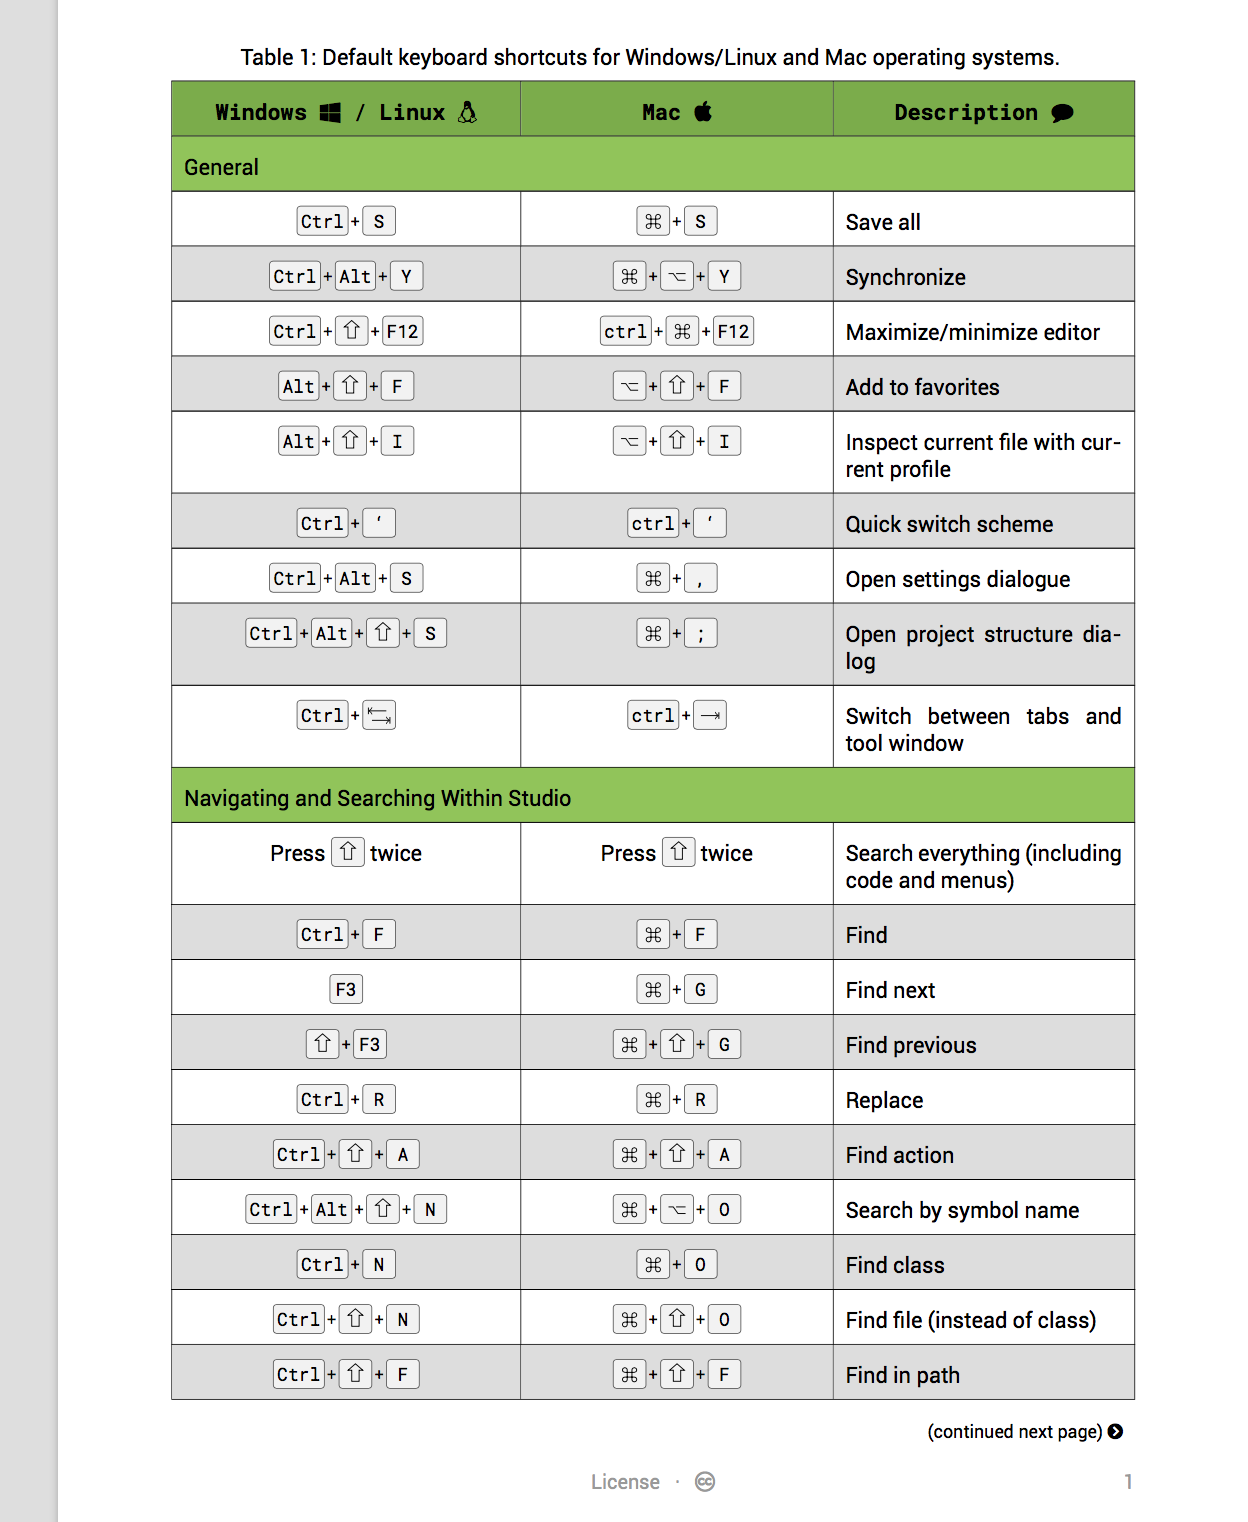
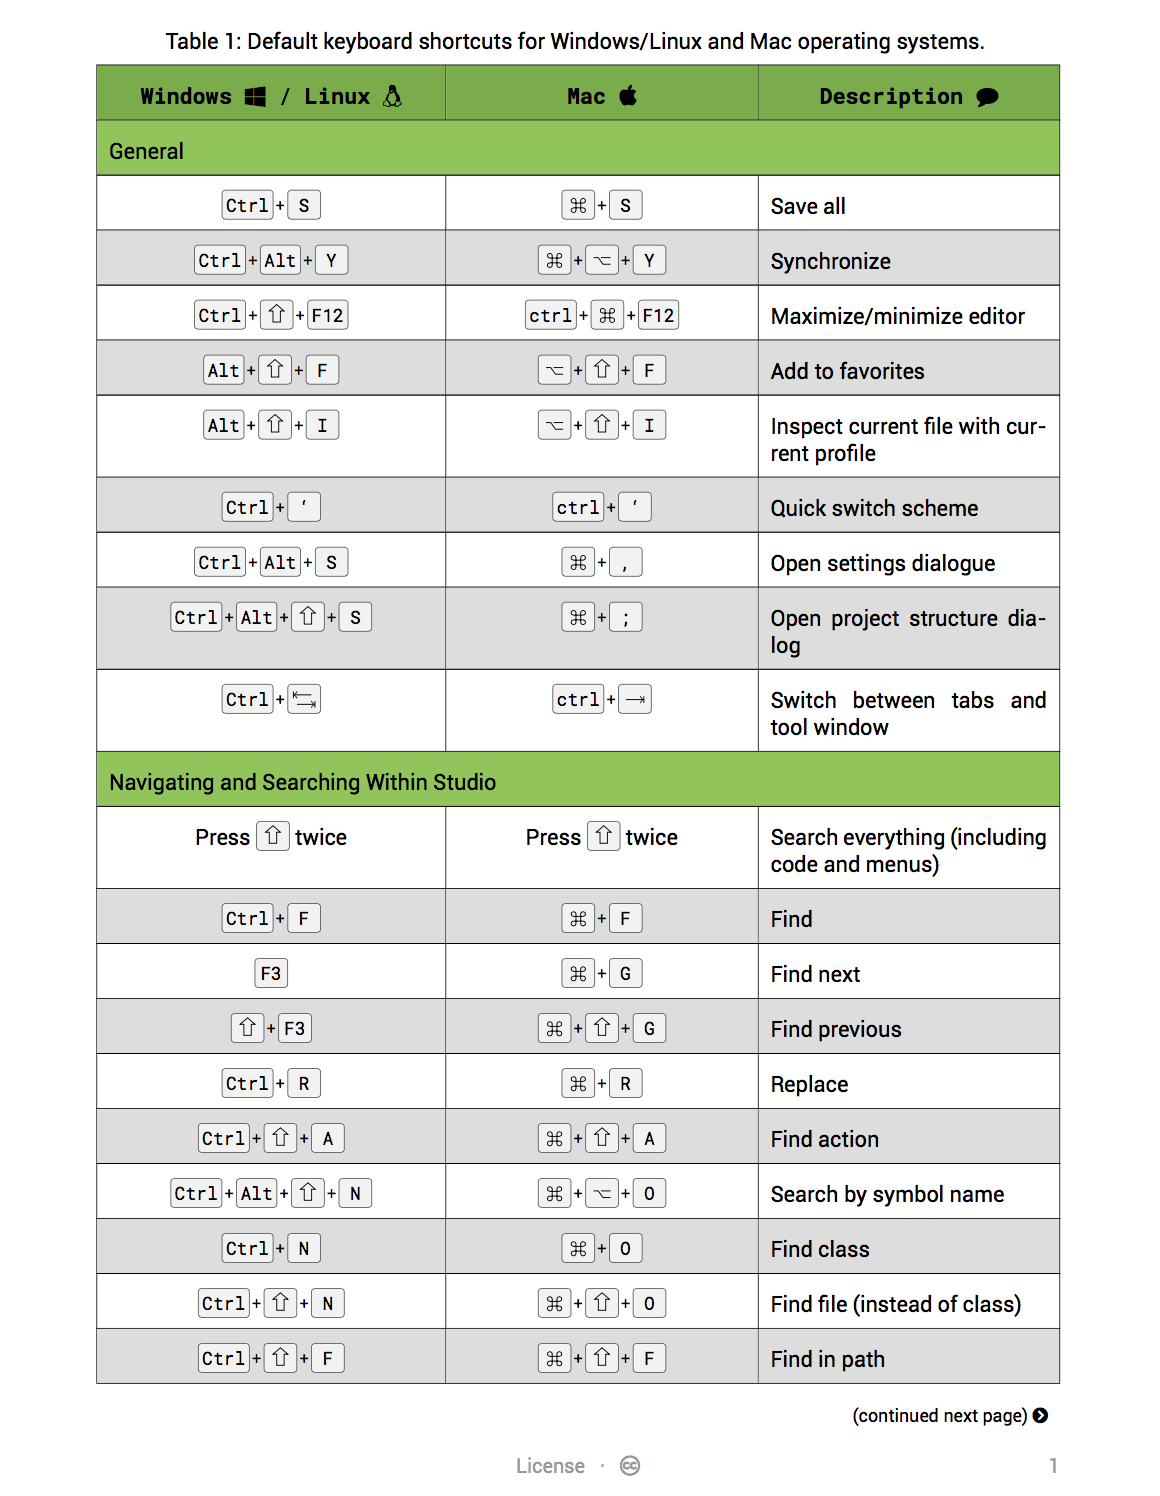
Remove second screenshot from the repo

Changed region(s): [[0.0, 0.0, 0.931, 1.0], [0.4655, 0.9532, 0.5897, 0.984]]

diff --git a/README.md b/README.md
@@ -6,7 +6,7 @@ FontAwesome.
 
 ### Sample Screenshots For Android Studio Keyboard Shortcuts
 
-<img src="screenshots/android-studio-keyboard-shortcuts.png" width="400" /> <img src="doc/android-studio-keyboard-shortcuts.png" width="400" />
+<img src="screenshots/android-studio-keyboard-shortcuts.png" width="500" />
 
 ### Generate PDF
 
